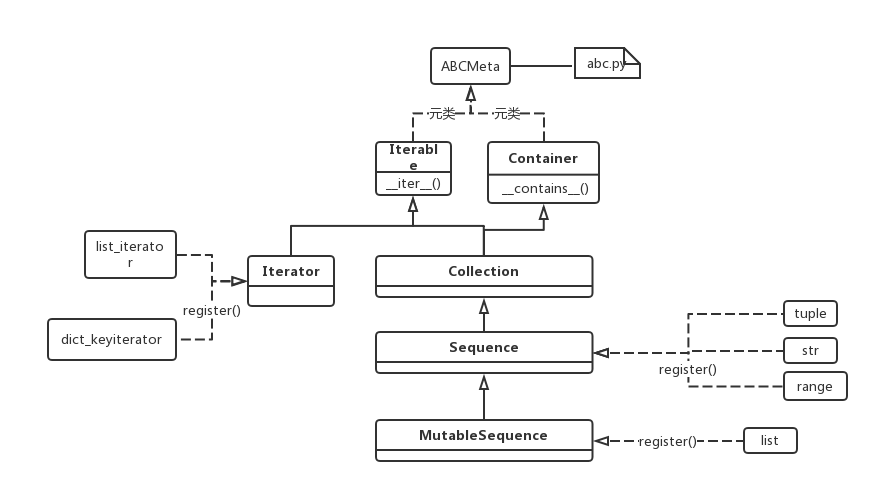
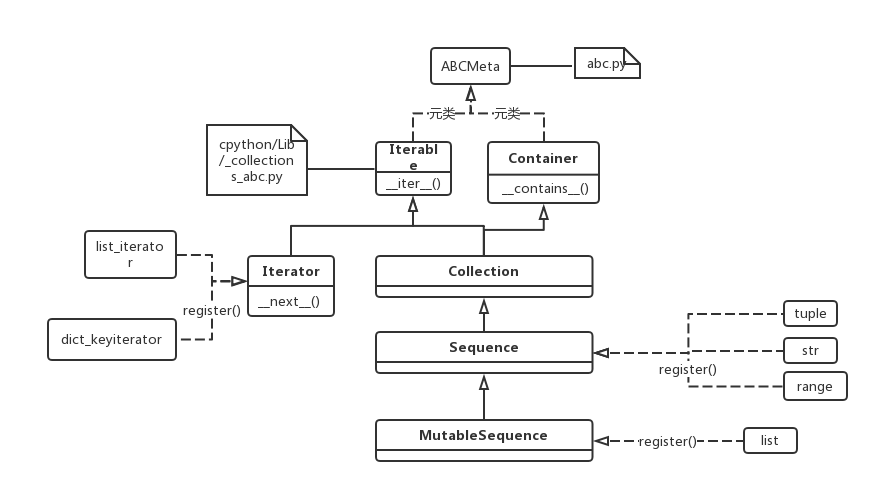
20180926

Changed region(s): [[0.2457, 0.2434, 0.43, 0.3955], [0.2765, 0.6085, 0.3993, 0.6694]]

diff --git a/source/iterator.rst b/source/iterator.rst
@@ -1,39 +1,78 @@
 Iterator(迭代器)
 =================
+Reference
+-----------------
+https://www.programiz.com/python-programming/iterator
+
 迭代器模式
-^^^^^^^^^^^^^^^
+-----------------
 iterator是一种“设计模式”，和“观察者模式”、“访问者模式”同属于“面向任务的模式”，用于“执行及描述任务”。其目的是"提供一种方法访问一个容器对象中各个元素，而又不暴露该对象的内部细节。"
 
 .. image:: _images/iterator-dp.jpg
 
-Reference
-^^^^^^^^^^^
-https://www.programiz.com/python-programming/iterator
+从上面的类关系图可得：
 
-迭代协议
-^^^^^^^^^
-Technically speaking, Python iterator object must implement two special methods, __iter__() and __next__(), collectively called the **iterator protocol**, 例子可见下一小节。
+1. 容器类应该提供一个方法，可以得到其迭代器，在python中是Iterable.__iter__()
+2. 然而，迭代器也应该提供一个方法，可以让“client程序”访问到容器类中的元素，在python中是Iterator.__next__()
+3. 一般来说，我们只要实现一个集合，就需要同时提供这个集合的迭代器
 
-- __iter__()
+python3的源码分析
+-----------------------
 
-一个实现这个成员方法的iterator就把自身也变成了一个iterable，就可以使用在 **for loop** 中了。见下面的小节“How for loop actually works”
+.. image:: _images/sequence_uml.png
 
-what is iterable&iterator
-^^^^^^^^^^^^^^^^^^^^^^^^^^^^
-Iterator in Python is simply an object that can be iterated upon. An object which will return data, one element at a time. In the other words, iterator必须实现__iter__()和__next__()
+1. python3用class Iterable和class Iterator两个抽象基类（ABC,abstract base class）定义了在其继承体系中的iterable类必须要实现的接口函数__iter__()以及iterator类必须要实现的__next__(),也就是所谓的“迭代协议”
 
-An object is called iterable if we can get an iterator from it throught iter() function.In the other words, iterable只需要实现__iter__()
+.. code-block:: python
+	:linenos:
+
+	class Iterable(metaclass=ABCMeta):
+
+	    __slots__ = ()
+
+	    @abstractmethod
+	    def __iter__(self):
+	        while False:
+	            yield None
+
+	    @classmethod
+	    def __subclasshook__(cls, C):
+	        if cls is Iterable:
+	            return _check_methods(C, "__iter__")
+	        return NotImplemented
+
+
+	class Iterator(Iterable):
+
+	    __slots__ = ()
+
+	    @abstractmethod
+	    def __next__(self):
+	        'Return the next item from the iterator. When exhausted, raise StopIteration'
+	        raise StopIteration
+
+	    def __iter__(self):
+	        return self
+
+	    @classmethod
+	    def __subclasshook__(cls, C):
+	        if cls is Iterator:
+	            return _check_methods(C, '__iter__', '__next__')
+	        return NotImplemented
+
+2. python3 built-in **iterable type** and corresponding **iterator**, e.g. list and list_iterator
 
 Built-in functions using iterable 
-^^^^^^^^^^^^^^^^^^^^^^^^^^^^^^^^^^^^^^^^^^^^^
+^^^^^^^^^^^^^^^^^^^^^^^^^^^^^^^^^^^^^^^
 python很多内建的函数的参数都是iterable，例如
 
 - sum(iterable[, start])
 - max(iterable, \*iterables[,key, default])
 - for element in iterable
+- iter(iterable), return an iterator
 
 Built-in iterable containers
-^^^^^^^^^^^^^^^^^^^^^^^^^^^^^^^
+^^^^^^^^^^^^^^^^^^^^^^^^^^^^^^^^
 Most of built-in containers in Python like: list, tuple, string etc. are iterables.
 
 .. code-block:: none
@@ -60,31 +99,84 @@ Most of built-in containers in Python like: list, tuple, string etc. are iterabl
 	  File "<stdin>", line 1, in <module>
 	TypeError: 'list' object is not an iterator
 
-Building Your Own Iterator in Python
-^^^^^^^^^^^^^^^^^^^^^^^^^^^^^^^^^^^^^^^
-1. 自定义iterator，就必须要满足“迭代协议”
+Building Your Own Iterator
+--------------------------------------------
+custom class: the OO way
+^^^^^^^^^^^^^^^^^^^^^^^^^^^
+.. code-block:: python
+	:linenos:
 
-2. Can build your own iterables in python?
+	class PowTwo:
+	    """Class to implement an iterator
+	    of powers of two"""
 
-3. 既然The __iter__() method returns the iterator object itself，客户端的使用iterator的代码又是next(iter(iterator))，那么为什么必须实现__iter__()呢，可以直接使用next(iterator)吗？
+	    def __init__(self, max = 0):
+	        self.max = max
 
-上面两个问题的答案是相同的，“实现了__iter__()的iterator自身就是一个iterable”，就可以使用在for循环中了。
+	    def __iter__(self):
+	        self.n = 0
+	        return self
 
-4. Python generators are a simple way of creating iterators. 
+	    def __next__(self):
+	        #自定义class一定要有这条件语句，用来终止next()
+	        if self.n <= self.max:
+	            result = 2 ** self.n
+	            self.n += 1
+	            return result
+	        else:
+	            #表示next()要终止
+	            raise StopIteration
 
-How to use your own iterator
-^^^^^^^^^^^^^^^^^^^^^^^^^^^^^^
-从客户端代码看，有两种使用方法，可以参考reference/Building Your Own Iterator in Python：
+1. class定义了__iter__()表示其instance是iterable
+2. 定义了__next__()表示其instance是iterator
+3. 客户端代码如下
 
-1. 第一步，new an iterator；第二步，next(the-new-iterator)
-2. 第一步，new an iterator；第二步，for element in the-new-iterator
+.. code-block:: python
+	:linenos:
 
-"for语句"是如何给工作的
-^^^^^^^^^^^^^^^^^^^^^^^^^^^^^
+	>>> a = PowTwo(4)
+	>>> i = iter(a)
+	>>> next(i)
+	1
+	>>> next(i)
+	2
+	>>> next(i)
+	4
+	>>> next(i)
+	8
+	>>> next(i)
+	16
+	>>> next(i)
+	Traceback (most recent call last):
+	...
+	StopIteration
+
+或者
+
+.. code-block:: python
+	:linenos:
+
+	>>> for i in PowTwo(5):
+	...     print(i)
+	...     
+	1
+	2
+	4
+	8
+	16
+	32
+
+Generator functions
+^^^^^^^^^^^^^^^^^^^^^^^
+Generator expressions
+^^^^^^^^^^^^^^^^^^^^^^^^^
+
+How "for loop" actually works
+--------------------------------
 下面的代码中最重要的几点就是 
 
 - iterable才能用到for语句中去
-- element是next(iter_obj)的返回值
+- **element == next(iter_obj)**
 
 .. code-block:: none
 	:linenos:
@@ -112,7 +204,7 @@ Is actually implemented as
 	        break
 
 Why using iterator
-^^^^^^^^^^^^^^^^^^^^^
+---------------------------
 iterator其实和定义一个函数以实现一个功能是相同的，为啥不定义一个函数算了呢？
 
 - 设计模式中，惯用的伎俩就是把操作外化为类

diff --git a/source/generator.rst b/source/generator.rst
@@ -1,44 +1,35 @@
 Generator
 ============
 Reference
-^^^^^^^^^^^
+--------------
 学习generator时主要参考了两个链接：
 
 - `python生成器的优点-zhihu <https://www.zhihu.com/question/24807364>`_
 - `Python Generators <https://www.programiz.com/python-programming/generator>`_
 
-When to use generator
-^^^^^^^^^^^^^^^^^^^^^^^
-我的理解是只要生成list等sequence的地方，就可以考虑使用generator
+python3源码
+--------------------
+.. image:: _images/generator-uml.png
 
-Why generator when there's iterator
-^^^^^^^^^^^^^^^^^^^^^^^^^^^^^^^^^^^^
-用定义函数来取代定义类，以简化代码。
+1. python3中确实有内建的class generator
+2. class Generator继承自class Iterator，所以class generator的实例对象可以直接作为next()参数，而无必要先调用iter()；当然，generator实例也可用于"for loop"
 
 How to define a generator
-^^^^^^^^^^^^^^^^^^^^^^^^^^^
-generator并不像iterator那样用class来定义，Simply speaking, a generator is a function that returns an object (iterator) which we can iterate over (one value at a time).
+------------------------------
 
-python中generator的两种定义方式：
+Generator functions
+^^^^^^^^^^^^^^^^^^^^^^^^
+1. If a function contains at least one `yield expression <https://docs.python.org/3.6/reference/expressions.html#yield-expressions>`_ (it may contain other yield or return statements), it becomes a generator function. 无论是有多个yield()语句，还是在for loop中调用yield()，例如 `reverse the string <https://www.programiz.com/python-programming/generator#with-loop>`_.
 
-1. 以前经常使用的列表推导式
+    yield和return的区别, while a return statement terminates a function entirely, yield statement pauses the function saving all its states and later continues from there on successive calls.
 
-- generator expression creates an anonymous generator function.
-- using round parentheses.
+2. When a generator function is called, it returns an iterator known as **a generator**, 此时，不执行函数体中的任何语句。
+3. 第一次执行“next(the-generator)”时，从"the generator function"的函数体的第一行开始，直至“第一条yield expression”为止，此时，returning the value of **expression_list** to the generator’s caller
 
-.. code-block:: none
+    但是注意啦，The value of **the yield expression** after resuming depends on the method which resumed the execution. If __next__() is used (typically via either a for or the next() builtin) then the result is None. Otherwise, if send() is used, then the result will be the value passed in to that method. 这一段的理解有点困难，示例代码可以参见 `Code Examples <https://docs.python.org/3.6/reference/expressions.html#examples>`_, 我对这段代码的理解如下：
 
-	>>> ge = (x**2 for x in [1,2,3])
-	>>> ge
-	<generator object <genexpr> at 0x00000000024B8AF0>
-	>>> type(ge)
-	<class 'generator'>
-
-2. 生成器函数
-
-If a function contains at least one yield statement (it may contain other yield or return statements), it becomes a generator function. 无论是有多个yield()语句，还是在for loop中调用yield()，例如 `reverse the string <https://www.programiz.com/python-programming/generator#with-loop>`_.
-
-The difference is that, while a return statement terminates a function entirely, yield statement pauses the function saving all its states and later continues from there on successive calls.
+        - 客户端代码第1次调用next(generator)时，并未执行value = (yield value)，而是停在了右侧的"yield expression"，把value的值1返回给了next(generator)，作为print()的参数打印了出来
+        - 客户端代码第2次调用next(generator)时，value = (yield value) 才被执行，而(yield value)的值是None，所以在给value赋完新值None后，程序又停在了value = (yield value)右侧的(yield value)，把value的值None返回给了next(generator)用于print()
 
 .. code-block:: python
 	:linenos:
@@ -58,8 +49,8 @@ The difference is that, while a return statement terminates a function entirely,
 	    print('This is printed at last')
 	    yield n
 
-generator function的执行过程
-^^^^^^^^^^^^^^^^^^^^^^^^^^^^^
+客户端代码如下：
+
 1. 使用next() 
 
 .. code-block:: python
@@ -112,11 +103,43 @@ generator function的执行过程
 	This is printed at last
 	3    
 
-Why using generator not iterator class
-^^^^^^^^^^^^^^^^^^^^^^^^^^^^^^^^^^^^^^^^^
+Generator expressions
+^^^^^^^^^^^^^^^^^^^^^^^^^^^
+
+.. code-block:: python
+	:linenos:
+
+	>>> ge = (x**2 for x in [1,2,3])
+	>>> ge
+	<generator object <genexpr> at 0x00000000024B8AF0>
+	>>> type(ge)
+	<class 'generator'>
+
+1. generator expression creates an anonymous generator function.   
+    - generator expression返回的直接就是一个generator，而无需像generator function要调用后才会返回一个generator 
+    - 上述示例代码中的"x**2"就是generator function中的"expression_list of yield"，即调用next(ge)后的返回值
+    - 每调用一次next(ge)时的执行过程也和generator function相同——从上一条yield的下一条语句执行到下一条yield语句之前。
+ 
+2. 和“列表推导式”的区别在于——using round parentheses.
+
+Pipelining Generators
+-------------------------------------------
+Pipelining Generators的意思就是把多个generator串联起来。
+
 Suppose we have a log file from a famous fast food chain. The log file has a column (4th column) that keeps track of the number of pizza sold every hour and we want to sum it to find the total pizzas sold in 5 years.
-`Pipelining Generators <https://www.programiz.com/python-programming/generator#use>`_
+`示例代码 <https://www.programiz.com/python-programming/generator#use>`_ 有一些不足，我给出了完善
+
+.. code-block:: python
+	:linenos:
+    
+	#始终用'b'打开文件
+	with open('sells.log', 'rb') as fp:
+	    #读取非空行
+	    pizza_col = (line.split(b' ')[3:4] for line in fp if line.strip())
+	    per_hour = (int(x) for x in pizza_col if x != 'N/A')
+	    #sum(iterable)
+	    print("Total pizzas sold = ",sum(per_hour))
 
 Attention
-^^^^^^^^^^
+------------------------------
 生成器只能遍历一次

diff --git a/source/io.rst b/source/io.rst
@@ -37,8 +37,20 @@ binary I/O
 
 文件I/O的正确做法
 --------------------
-始终用'b'来open()
 
-因为
-1. 对于非文本文件，例如，image文件，根本无法转化为unicode字符，读入python后，只能是bytes对象
-2. 对于文本文件，编码方式不确定，容易导致读取字符序列后对其decode的失败，所以也先以bytes对象读入python中，想办法 :ref:`确定其编码方式 <detect-codec>` 后，再decode成str对象。
+.. code-block:: python
+    :linenos:
+
+    with open(file_path, 'b') as file_obj:
+        #For reading lines from a file
+        for line in file_obj:
+            pass
+
+1. 始终用'b'来open()
+
+- 对于非文本文件，例如，image文件，根本无法转化为unicode字符，读入python后，只能是bytes对象
+- 对于文本文件，编码方式不确定，容易导致读取字符序列后对其decode的失败，所以也先以bytes对象读入python中，想办法 :ref:`确定其编码方式 <detect-codec>` 后，再decode成str对象。
+
+2. It is good practice to use the with keyword when dealing with file objects. The advantage is that the file is properly closed after its suite finishes, even if an exception is raised at some point. 
+
+3. file_obj是iterable

diff --git a/source/dict.rst b/source/dict.rst
@@ -91,6 +91,7 @@ Dict.keys()等方法的返回值可以用于"for循环语句",说明返回对象
     4
     5
     >>> it = iter(tt)
+    #dict_keyiterator在python3的类图中的位置可以参见"Sequence"章节中的uml图
     >>> it
     <dict_keyiterator object at 0x00000000022E05E8>
     >>> from collections.abc import *

diff --git a/source/index.rst b/source/index.rst
@@ -23,6 +23,7 @@ Welcome to road2python's documentation!
    function
    magic-method
    session-controller
+   abc
    iterator
    generator
    closure

diff --git a/source/abc.rst b/source/abc.rst
@@ -1,0 +1,2 @@
+抽象基类
+===========
